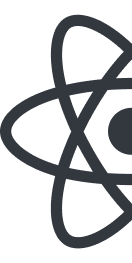
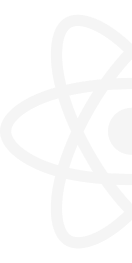
added Light And Dark Mode

Changed region(s): [[0.0, 0.0304, 1.0, 0.9734], [0.8182, 0.3954, 1.0, 0.6084]]

diff --git a/style.css b/style.css
@@ -1,4 +1,4 @@
-*{
+/* *{
     box-sizing: border-box;
 }
 body{
@@ -11,7 +11,6 @@ body{
 }
 nav {
     display: flex;
-    /* justify-content: center; */
     align-items: center;
     background-color: #21222A;
     height: 90px;
@@ -20,7 +19,6 @@ nav {
 nav >img {
     margin:0;
     margin-right: 7px;
-    /* height: 30px; */
 }
 nav > h3{
     margin: 0;
@@ -55,6 +53,153 @@ main > ul > li{
     padding-block: 10px;
 }
 main > ul > li::marker {
+    font-size: 1.4rem;
+    color: #61DAFB;
+} */
+
+* {
+    box-sizing: border-box;
+}
+
+h1, h2, h3, h4, h5, h6, p {
+    margin: 0;
+}
+
+body {
+    margin: 0;
+    font-family: Inter,sans-serif;
+}
+
+.container {
+    display: flex;
+    flex-direction: column;
+    height: 100vh;
+}
+
+/* NAV styles */
+
+nav {
+    display: flex;
+    align-items: center;
+    background-color: #ffffff;
+    padding: 30px 25px;
+    height: 60px;
+    box-shadow: 0px 1px 4px rgba(0, 0, 0, 0.25);
+    z-index: 1;
+}
+
+nav.dark {
+    background-color: #21222A;
+}
+
+.nav--logo_icon {
+    width: 30px;
+    margin-right: 10px;
+}
+
+.nav--logo_text {
+    color: #61DAFB;
+    margin-right: auto;
+}
+
+.nav--title {
+    color: #DEEBF8;
+}
+
+.toggler {
+    display: flex;
+    align-items: center;
+}
+
+.toggler p {
+    font-size: 0.625rem;
+    font-weight: 600;
+}
+
+.toggler--slider {
+    width: 25px;
+    height: 13px;
+    background-color: #2B283A;
+    border-radius: 2rem;
+    margin-inline: 7px;
+    cursor: pointer;
+    display: flex;
+    justify-content: flex-start;
+    align-items: center;
+    border: 1px solid black;
+    box-sizing: content-box;
+}
+
+nav.dark .toggler--slider {
+    border-color: white;
+    background-color: #F5F5F5;
+}
+
+.toggler--slider--circle {
+    height: 13px;
+    width: 13px;
+    background-color: white;
+    border-radius: 50%;
+}
+
+nav.dark .toggler--slider--circle {
+    background-color: black;
+}
+
+.toggler--light {
+    color: #2B283A;
+}
+
+nav.dark .toggler--light {
+    color: #918E9B;
+}
+
+.toggler--dark {
+    color: #D5D4D8;
+}
+
+nav.dark .toggler-dark {
+    color: #FFFFFF;
+}
+
+nav.dark .toggler--slider {
+    justify-content: flex-end;
+}
+
+/* MAIN styles */
+main {
+    padding: 57px 27px;
+    background-image: url("./icon/reactjs-icon 2.png"); 
+    background-repeat: no-repeat;
+    background-position: right center;
+    flex: 1 1 auto;
+    background-color: white;
+    color: #2B283A;
+}
+
+main.dark {
+    background-image: url("./icon/reactjs-icon 2 dark.png"); 
+    background-color: #282D35;
+    color: white;    
+}
+
+.main--title {
+    margin: 0;
+    font-size: 39px;
+    letter-spacing: -0.05em;
+}
+
+.main--facts {
+    margin-top: 46px;
+    max-width: 400px;
+}
+
+.main--facts > li {
+    line-height: 19px;
+    padding-block: 10px;
+}
+
+.main--facts > li::marker {
     font-size: 1.4rem;
     color: #61DAFB;
 }

diff --git a/react.js b/react.js
@@ -1,37 +1,50 @@
 let root = document.querySelector("#root");
 
-function Header() {
-    return (
-        <nav>
-            <img src="./icon/logo_dark.svg" width="60px"></img>
-            <h3>ReactFacts</h3>
-            <h4>React Course - Project 1</h4>
-        </nav>
-    )
+function Header(props) {
+  return (
+    <nav className={props.darkMode ? "dark": ""}>
+      <img 
+        className="nav--logo_icon"
+        src="./icon/logo_dark.svg" width="60px"
+    />
+      <h3 className="nav--logo_text">ReactFacts</h3>
+      <div className="toggler">
+        <p className="toggler--light">Light</p>
+        <div className="toggler--slider" onClick={props.toggleDarkMode}>
+          <div className="toggler--slider--circle"></div>
+        </div>
+        <p className="toggler--dark">Dark</p>
+      </div>
+    </nav>
+  );
 }
 
-function Main() {
-    return (
-        <main>
-            <h1>Fun Facts About React</h1>
-            <ul>
-                <li>Was first released in 2013</li>
-                <li>Was originally created by Jordan Walke</li>
-                <li>Has well over 100K stars on GitHub</li>
-                <li>Is maintained by Meta</li>
-                <li>Powers thousands of enterprise apps, including mobile apps</li>
-            </ul>
-        </main>
-    )
+function Main(props) {
+  return (
+    <main className={props.darkMode ? "dark" : ""}>
+      <h1 className="main--title">Fun Facts About React</h1>
+      <ul className="main--facts">
+        <li>Was first released in 2013</li>
+        <li>Was originally created by Jordan Walke</li>
+        <li>Has well over 100K stars on GitHub</li>
+        <li>Is maintained by Meta</li>
+        <li>Powers thousands of enterprise apps, including mobile apps</li>
+      </ul>
+    </main>
+  );
 }
 
 function App() {
-    return (
-        <div>
-            <Header />  
-            <Main />
-        </div>
-    )
+    const [darkMode, setDarkMode] = React.useState(true);
+    function toggleDarkMode() {
+        setDarkMode(prevMode => !prevMode)
+    }
+  return (
+    <div className="container">
+      <Header darkMode={darkMode} toggleDarkMode={toggleDarkMode}/>
+      <Main darkMode={darkMode} />
+    </div>
+  );
 }
 
-ReactDOM.render(<App />,root);
+ReactDOM.render(<App />, root);
